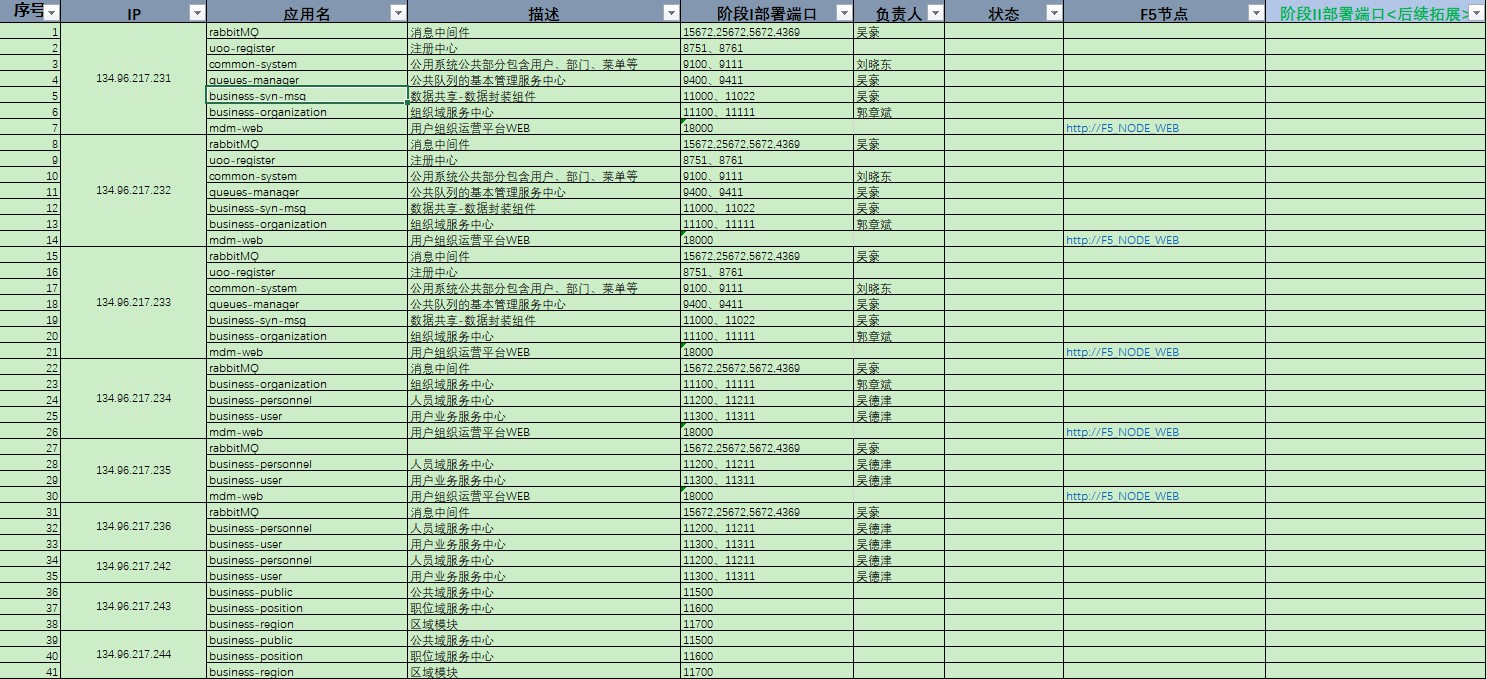
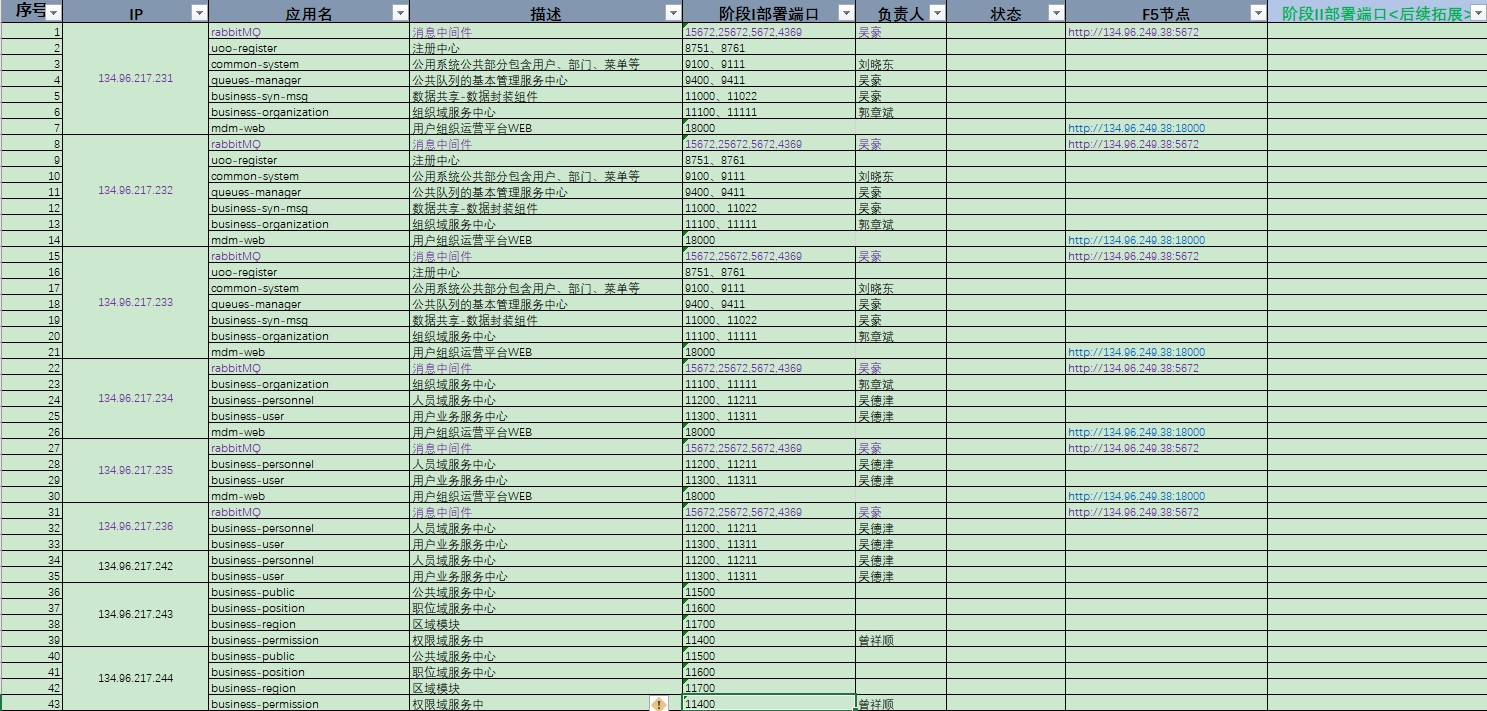
添加权限部署

Changed region(s): [[0.0, 0.0, 1.0, 1.0]]

diff --git a/doc/Description/deploy.md b/doc/Description/deploy.md
@@ -185,7 +185,7 @@ function start()
 | 111 | business-organization |组织域服务中心 | 11100、11111 | 11122、11133、11144 |
 | 112 | business-personnel | 人员域服务中心 | 11200、11211 | 11222、11233、11244 |
 | 113 | business-user | 用户域服务中心 | 11300、11311 | 11322、11333、11344 |
-| 114 | business-permission | 权限域服务中心 | 11400、11411 | 11422、11433、11444 |
+| 114 | business-permission | 权限域服务中心 | 11400 | 11411、11422、11433、11444 |
 | 115 | business-public | 公共域服务中心 | 11500 | 11511、 11522、11533、11544 |
 | 116 | business-position | 职位域服务中心 | 11600 | 11611、11622、11633、11644 |
 | 117 | business-region | 区域服务中心 | 11700 | 11711、11722、11733、11744 |
